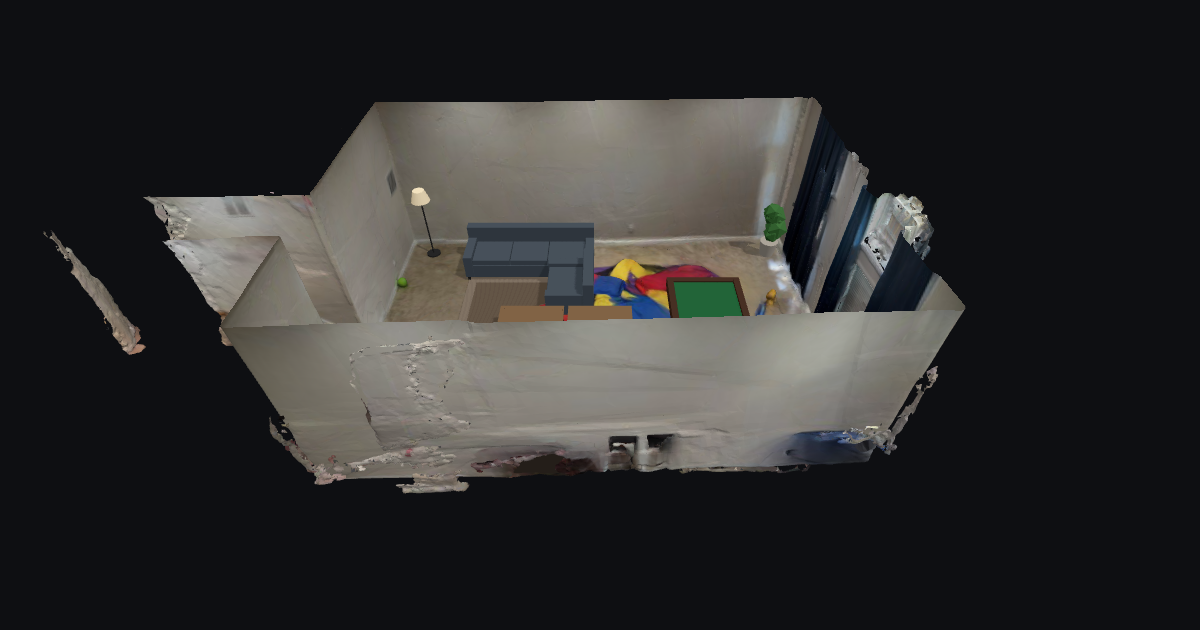
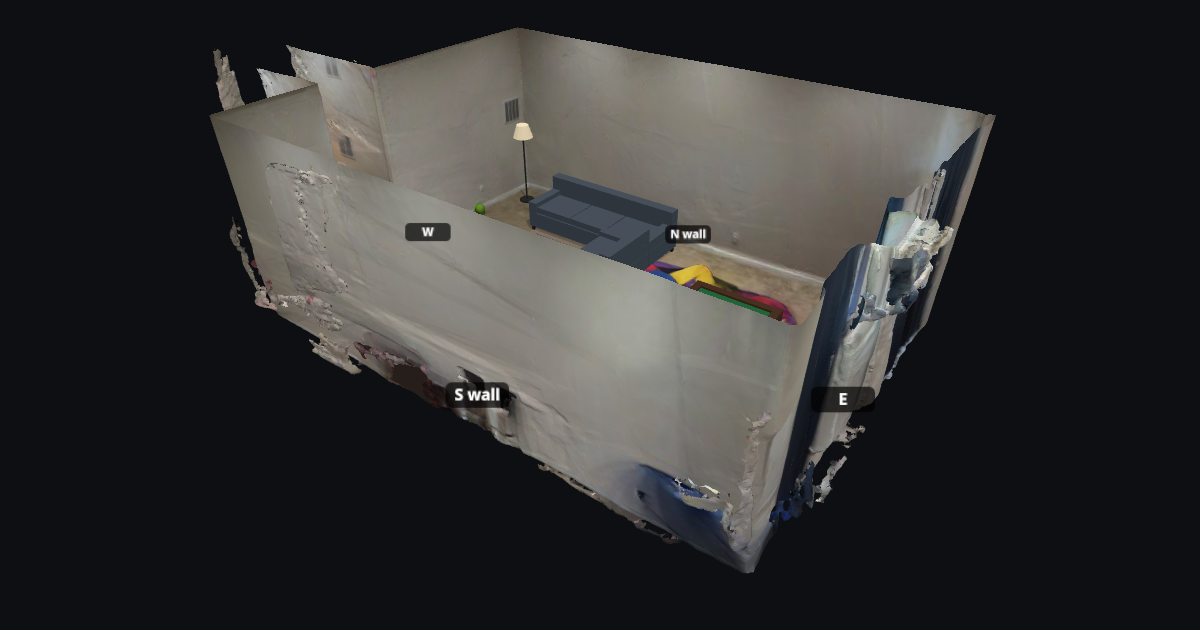
Auto-framing, view presets, compass, plan lock, snapping, better walk/controls

Changed region(s): [[0.1233, 0.0302, 0.8325, 0.9048], [0.0617, 0.4222, 0.1233, 0.573], [0.0308, 0.3619, 0.0617, 0.4222]]

diff --git a/index.html b/index.html
@@ -1,96 +1,161 @@
-<!doctype html><html lang="en"><head><meta charset="utf-8"><meta name="viewport" content="width=device-width,initial-scale=1,maximum-scale=1">
+<!doctype html><html lang="en"><head><meta charset="utf-8"><meta name="viewport" content="width=device-width,initial-scale=1,maximum-scale=1,viewport-fit=cover">
 <title>Basement Room Planner</title>
-<meta name="description" content="Walk through the scanned basement in 3D and try furniture layouts.">
-<meta property="og:title" content="Basement Room Planner"><meta property="og:description" content="Walk the scanned basement in 3D and try furniture layouts.">
+<meta name="description" content="Walk through the scanned room in 3D and try furniture layouts.">
+<meta property="og:title" content="Basement Room Planner"><meta property="og:description" content="Walk the scanned room in 3D and try furniture layouts.">
 <meta property="og:image" content="https://underoverinput.github.io/basement-room-planner/og.png"><meta property="og:type" content="website">
 <meta name="twitter:card" content="summary_large_image"><meta name="twitter:image" content="https://underoverinput.github.io/basement-room-planner/og.png">
 <style>
-*{box-sizing:border-box}body{margin:0;background:#0e0f12;color:#e6e6e6;font:14px system-ui,-apple-system,sans-serif;overflow:hidden}
-#c{position:fixed;inset:0}#top{position:fixed;top:0;left:0;right:300px;display:flex;gap:6px;flex-wrap:wrap;padding:10px;align-items:center;pointer-events:none}
-#top>*{pointer-events:auto}h1{font-size:15px;margin:0 8px 0 0;font-weight:600}
-button,select,input{background:#1d2027;color:#e6e6e6;border:1px solid #333845;border-radius:8px;padding:7px 10px;font:inherit}button:hover{background:#2a2f3a}button.on{background:#3b6fd8;border-color:#3b6fd8}
-#side{position:fixed;top:0;right:0;bottom:0;width:300px;background:#15171cee;border-left:1px solid #262a33;overflow:auto;padding:12px}
+*{box-sizing:border-box}html,body{height:100%}body{margin:0;background:#0e0f12;color:#e6e6e6;font:14px system-ui,-apple-system,sans-serif;overflow:hidden}
+#view{position:fixed;top:0;left:0;right:300px;bottom:0}#c{display:block;width:100%;height:100%;touch-action:none}
+#top{position:absolute;top:0;left:0;right:0;display:flex;gap:6px;flex-wrap:wrap;padding:10px;align-items:center;pointer-events:none}#top>*{pointer-events:auto}
+h1{font-size:15px;margin:0 6px 0 0;font-weight:600}.grp{display:flex;gap:2px;background:#15171cd0;border-radius:9px;padding:2px}
+button,select,input{background:#1d2027;color:#e6e6e6;border:1px solid #333845;border-radius:8px;padding:6px 9px;font:inherit}button:hover{background:#2a2f3a}button.on{background:#3b6fd8;border-color:#3b6fd8}
+#side{position:fixed;top:0;right:0;bottom:0;width:300px;background:#15171c;border-left:1px solid #262a33;overflow:auto;padding:12px}
 .cat{color:#8a90a0;font-size:11px;text-transform:uppercase;margin:12px 0 4px}.item{display:flex;justify-content:space-between;padding:7px 9px;border-radius:7px;cursor:pointer}.item:hover{background:#232733}.item small{color:#8a90a0}
-#sel{position:fixed;left:50%;bottom:14px;transform:translateX(-50%);background:#15171cf2;border:1px solid #2a2f3a;border-radius:12px;padding:8px;display:none;gap:6px;align-items:center}
-#hint{position:fixed;left:10px;bottom:10px;color:#8a90a0;font-size:12px}a{color:#7aa7ff}
-#joy{position:fixed;left:24px;bottom:70px;width:110px;height:110px;border-radius:50%;background:#ffffff14;border:1px solid #ffffff30;display:none;touch-action:none}#joy i{position:absolute;left:35px;top:35px;width:40px;height:40px;border-radius:50%;background:#ffffff50}
-#toast{position:fixed;top:60px;left:50%;transform:translateX(-50%);background:#3b6fd8;padding:8px 14px;border-radius:8px;display:none}
-#load{position:fixed;inset:0;display:flex;align-items:center;justify-content:center;font-size:16px;background:#0e0f12}
-@media(max-width:760px){#top{right:0}#side{top:auto;left:0;width:auto;height:38vh;border-left:0;border-top:1px solid #262a33;border-radius:14px 14px 0 0}#side.min{height:44px;overflow:hidden}#sel{bottom:calc(38vh + 10px);flex-wrap:wrap;width:94vw;justify-content:center}#hint{display:none}#joy{bottom:calc(38vh + 20px)}}
+#sel{position:absolute;left:50%;bottom:12px;transform:translateX(-50%);background:#15171cf2;border:1px solid #2a2f3a;border-radius:12px;padding:8px;display:none;gap:6px;align-items:center;flex-wrap:wrap;justify-content:center;max-width:96%}
+#hint{position:absolute;left:10px;bottom:10px;color:#9aa0b0;font-size:12px;background:#0e0f12b0;padding:4px 8px;border-radius:6px}a{color:#7aa7ff}
+#compass{position:absolute;right:12px;top:58px;width:56px;height:56px;border-radius:50%;background:#15171cd0;border:1px solid #333845}
+#compass svg{width:100%;height:100%;transition:transform .05s}
+#joy{position:absolute;left:24px;bottom:60px;width:110px;height:110px;border-radius:50%;background:#ffffff14;border:1px solid #ffffff30;display:none;touch-action:none}#joy i{position:absolute;left:35px;top:35px;width:40px;height:40px;border-radius:50%;background:#ffffff50}
+#toast{position:absolute;top:60px;left:50%;transform:translateX(-50%);background:#3b6fd8;padding:8px 14px;border-radius:8px;display:none}
+#load{position:fixed;inset:0;display:flex;align-items:center;justify-content:center;font-size:16px;background:#0e0f12;z-index:9}
+label{display:flex;gap:4px;align-items:center;font-size:12px}
+@media(max-width:760px){#view{right:0;bottom:38vh}#side{top:auto;left:0;width:auto;height:38vh;border-left:0;border-top:1px solid #262a33}#hint{font-size:11px;right:66px}#compass{top:auto;bottom:10px;right:10px;width:46px;height:46px}}
+@media(max-height:500px) and (orientation:landscape){#view{right:240px;bottom:0}#side{top:0;left:auto;right:0;width:240px;height:auto;border-top:0;border-left:1px solid #262a33}#compass{top:auto;bottom:10px}}
 </style>
 <script type="importmap">{"imports":{"three":"https://cdn.jsdelivr.net/npm/three@0.165.0/build/three.module.js","three/addons/":"https://cdn.jsdelivr.net/npm/three@0.165.0/examples/jsm/"}}</script>
-</head><body><canvas id="c"></canvas><div id="load">Loading basement scan…</div>
-<div id="top"><h1>Basement Planner</h1><button id="mOrbit" class="on">Orbit</button><button id="mWalk">Walk</button>
+</head><body><div id="load">Loading room scan…</div>
+<div id="view"><canvas id="c"></canvas>
+<div id="top"><h1>Room Planner</h1>
+<div class="grp"><button id="mOrbit" class="on">Orbit</button><button id="mWalk">Walk</button></div>
+<div class="grp"><button data-v="top">Top</button><button data-v="front">Front</button><button data-v="side">Side</button><button data-v="iso">3/4</button><button id="fit" title="F">Fit room</button></div>
+<button id="lock">Lock to plan</button>
+<div class="grp"><label><input type="checkbox" id="snapG" checked>Grid 6″</label><label><input type="checkbox" id="snapA" checked>15°</label></div>
 <select id="layouts"><option value="">Layouts…</option></select><button id="save">Save</button><button id="share">Share layout</button><button id="clear">Clear</button>
-<a href="https://poly.cam/capture/0503709E-BDD0-4D62-BD74-C1BD9F886780" target="_blank" rel="noopener">View original scan on Polycam</a></div>
+<a href="https://poly.cam/capture/0503709E-BDD0-4D62-BD74-C1BD9F886780" target="_blank" rel="noopener">Original scan on Polycam</a></div>
+<div id="compass" title="Compass: N is the far wall in Top view"><svg viewBox="-50 -50 100 100"><circle r="44" fill="none" stroke="#444a58" stroke-width="2"/><path d="M0-38L9 0H-9Z" fill="#e05050"/><path d="M0 38L9 0H-9Z" fill="#9aa0b0"/><text y="-22" text-anchor="middle" fill="#fff" font-size="16" font-weight="700" transform="translate(0,-4)">N</text></svg></div>
+<div id="sel"><b id="selName"></b><small id="selDim" style="color:#8a90a0"></small><label>↻<input type="range" id="rotS" min="0" max="359" step="15" style="width:110px"><span id="rotV"></span></label><input type="color" id="col"><button id="dup">Duplicate</button><button id="del">Delete</button><button id="desel">Done</button></div>
+<div id="joy"><i></i></div><div id="toast"></div><div id="hint"></div></div>
 <div id="side"><div id="sideHead" style="display:flex;justify-content:space-between;align-items:center"><b>Add furniture</b><small id="roomdim" style="color:#8a90a0"></small></div><div id="list"></div></div>
-<div id="sel"><b id="selName"></b><small id="selDim" style="color:#8a90a0"></small><button id="rotL">⟲ 15°</button><button id="rotR">⟳ 15°</button><input type="color" id="col"><button id="dup">Duplicate</button><button id="del">Delete</button></div>
-<div id="joy"><i></i></div><div id="toast"></div>
-<div id="hint">Orbit: drag to look, scroll to zoom · Click item to select, drag to move · R/Q rotate · Del delete · Walk: WASD + drag</div>
 <script type="module">
 import * as THREE from 'three';import {OrbitControls} from 'three/addons/controls/OrbitControls.js';import {GLTFLoader} from 'three/addons/loaders/GLTFLoader.js';
 import {catalog,setColor} from './furniture.js';
-const B={x0:-4.26,x1:4.26,z0:-3.07,z1:3.07,ceil:3.9};const EYE=1.6;
+const B={x0:-4.26,x1:4.26,z0:-3.07,z1:3.07,ceil:3.9};const EYE=1.676,ROOM_ROT=-1.58*Math.PI/180,GRID=0.1524;
+const touch=matchMedia('(pointer:coarse)').matches;
 const ft=m=>{const i=Math.round(m*39.3701);return `${Math.floor(i/12)}′${i%12}″`;};
-document.getElementById('roomdim').textContent=`Room ≈ ${ft(B.x1-B.x0)} × ${ft(B.z1-B.z0)}`;
-const cv=document.getElementById('c');const R=new THREE.WebGLRenderer({canvas:cv,antialias:true,preserveDrawingBuffer:true});R.setPixelRatio(Math.min(devicePixelRatio,2));R.shadowMap.enabled=true;R.localClippingEnabled=true;const clip=new THREE.Plane(new THREE.Vector3(0,-1,0),3.3);
+document.getElementById('roomdim').textContent=`Room ≈ ${ft(B.x1-B.x0)} × ${ft(B.z1-B.z0)}, ceiling ${ft(B.ceil)}`;
+const view=document.getElementById('view'),cv=document.getElementById('c');
+const R=new THREE.WebGLRenderer({canvas:cv,antialias:true,preserveDrawingBuffer:true});R.shadowMap.enabled=true;R.localClippingEnabled=true;
+const clip=new THREE.Plane(new THREE.Vector3(0,-1,0),3.3);
 const S=new THREE.Scene();S.background=new THREE.Color(0x0e0f12);
-const cam=new THREE.PerspectiveCamera(60,1,0.05,100);cam.position.set(0,7.5,7.5);
+const cam=new THREE.PerspectiveCamera(48,1,0.05,200);
 S.add(new THREE.HemisphereLight(0xffffff,0x444444,1.6));const dl=new THREE.DirectionalLight(0xffffff,1.2);dl.position.set(3,6,2);dl.castShadow=true;S.add(dl);
-const oc=new OrbitControls(cam,cv);oc.target.set(0,0.5,0);oc.enableDamping=true;oc.maxPolarAngle=Math.PI*0.49;
+const oc=new OrbitControls(cam,cv);oc.enableDamping=true;oc.dampingFactor=0.1;oc.zoomToCursor=true;oc.screenSpacePanning=false;oc.minDistance=1.2;oc.maxDistance=40;oc.maxPolarAngle=Math.PI/2-0.03;oc.zoomSpeed=0.9;
+oc.touches={ONE:THREE.TOUCH.ROTATE,TWO:THREE.TOUCH.DOLLY_PAN};
+oc.addEventListener('change',()=>{const t=oc.target;t.x=THREE.MathUtils.clamp(t.x,B.x0-2,B.x1+2);t.z=THREE.MathUtils.clamp(t.z,B.z0-2,B.z1+2);t.y=THREE.MathUtils.clamp(t.y,0,2);if(cam.position.y<0.15)cam.position.y=0.15;});
+oc.addEventListener('start',()=>{anim=null;});
 const floor=new THREE.Mesh(new THREE.PlaneGeometry(B.x1-B.x0,B.z1-B.z0),new THREE.ShadowMaterial({opacity:0.25}));floor.rotation.x=-Math.PI/2;floor.position.y=0.002;floor.receiveShadow=true;S.add(floor);
-function resize(){const w=innerWidth,h=innerHeight;R.setSize(w,h,false);cam.aspect=w/h;cam.updateProjectionMatrix();}addEventListener('resize',resize);resize();
-new GLTFLoader().load('room.glb',g=>{g.scene.traverse(o=>{if(o.isMesh){o.receiveShadow=true;o.material.side=THREE.DoubleSide;o.material.clippingPlanes=[clip];}});S.add(g.scene);window.roomLoaded=true;document.getElementById('load').remove();},undefined,e=>{document.getElementById('load').textContent='Could not load room scan';});
-// list
+// wall labels
+function label(t,x,z){const c=document.createElement('canvas');c.width=128;c.height=64;const g=c.getContext('2d');g.fillStyle='#000a';g.beginPath();g.roundRect(4,8,120,48,12);g.fill();g.fillStyle='#fff';g.font='bold 30px system-ui';g.textAlign='center';g.textBaseline='middle';g.fillText(t,64,33);
+ const s=new THREE.Sprite(new THREE.SpriteMaterial({map:new THREE.CanvasTexture(c),depthTest:false}));s.scale.set(0.9,0.45,1);s.position.set(x,0.3,z);s.renderOrder=5;S.add(s);}
+label('N wall',0,B.z0+0.3);label('S wall',0,B.z1-0.3);label('E',B.x1-0.3,0);label('W',B.x0+0.3,0);
+// sizing
+function viewSize(){const r=view.getBoundingClientRect();return [Math.max(1,r.width),Math.max(1,r.height)];}
+function resize(){const [w,h]=viewSize();R.setPixelRatio(Math.min(devicePixelRatio||1,2));R.setSize(w,h,false);const th=Math.min(document.getElementById('top').offsetHeight+4,h*0.45);cam.aspect=w/(h-th);cam.setViewOffset(w,h-th,0,-th,w,h);cam.updateProjectionMatrix();if(mode==='orbit')goView(curView,false);}
+new ResizeObserver(resize).observe(view);
+// framing
+const DIRS={top:new THREE.Vector3(0,1,0.0001),front:new THREE.Vector3(0,0.35,1),side:new THREE.Vector3(1,0.35,0),iso:new THREE.Vector3(0.8,0.95,1.1)};
+let curView='iso',anim=null,locked=false;
+function framePose(name){const d=DIRS[name].clone().normalize();const tgt=new THREE.Vector3(0,0,0);const up=new THREE.Vector3(0,1,0);
+ const fwd=d.clone().negate(),right=new THREE.Vector3().crossVectors(fwd,up);if(right.lengthSq()<1e-6)right.set(1,0,0);right.normalize();const u=new THREE.Vector3().crossVectors(right,fwd);
+ const tv=Math.tan(THREE.MathUtils.degToRad(cam.fov/2)),th=tv*cam.aspect;let D=0;const hY=name==='top'?0:2.4;
+ for(const x of[B.x0,B.x1])for(const y of[0,hY])for(const z of[B.z0,B.z1]){const c=new THREE.Vector3(x,y,z);D=Math.max(D,c.dot(d)+Math.abs(c.dot(right))/th,c.dot(d)+Math.abs(c.dot(u))/tv);}
+ D*=1.08;return {pos:d.multiplyScalar(D),tgt};}
+function goView(name,smooth=true){curView=name;const p=framePose(name);oc.maxDistance=Math.max(40,p.pos.length()*2);if(!smooth){cam.position.copy(p.pos);oc.target.copy(p.tgt);oc.update();anim=null;return;}
+ anim={t0:performance.now(),dur:650,p0:cam.position.clone(),t0v:oc.target.clone(),p1:p.pos,t1:p.tgt};}
+document.querySelectorAll('[data-v]').forEach(b=>b.onclick=()=>{if(mode!=='orbit')setMode('orbit');if(locked&&b.dataset.v!=='top')setLock(false);goView(b.dataset.v);});
+document.getElementById('fit').onclick=()=>{if(mode!=='orbit')setMode('orbit');goView(curView);};
+function setLock(on){locked=on;document.getElementById('lock').classList.toggle('on',on);oc.enableRotate=!on;if(on){if(mode!=='orbit')setMode('orbit');goView('top');}}
+document.getElementById('lock').onclick=()=>setLock(!locked);
+// load room
+let room;new GLTFLoader().load('room.glb',g=>{room=g.scene;room.rotation.y=ROOM_ROT;room.traverse(o=>{if(o.isMesh){o.receiveShadow=true;o.material.side=THREE.DoubleSide;o.material.clippingPlanes=[clip];}});S.add(room);window.roomLoaded=true;document.getElementById('load').remove();},undefined,()=>{document.getElementById('load').textContent='Could not load room scan';});
+// furniture list
 const byCat={};catalog.forEach(c=>(byCat[c.category]??=[]).push(c));const L=document.getElementById('list');
-for(const k in byCat){L.insertAdjacentHTML('beforeend',`<div class="cat">${k}</div>`);for(const c of byCat[k]){const d=document.createElement('div');d.className='item';d.innerHTML=`<span>${c.name}</span><small>${ft(c.dims.w)} × ${ft(c.dims.d)}</small>`;d.onclick=()=>{select(addItem(c.id,{x:clampX(oc.target.x,c),z:0,r:0}));};L.appendChild(d);}}
+for(const k in byCat){L.insertAdjacentHTML('beforeend',`<div class="cat">${k}</div>`);for(const c of byCat[k]){const d=document.createElement('div');d.className='item';d.innerHTML=`<span>${c.name}</span><small>${ft(c.dims.w)} × ${ft(c.dims.d)}</small>`;d.onclick=()=>{const t=mode==='orbit'?oc.target:cam.position;select(addItem(c.id,{x:t.x,z:t.z,r:0}));};L.appendChild(d);}}
 const items=[];const cat=id=>catalog.find(c=>c.id===id);
 function halfExt(o){const c=cat(o.userData.itemId),a=o.rotation.y,cs=Math.abs(Math.cos(a)),sn=Math.abs(Math.sin(a));return {hx:(c.dims.w*cs+c.dims.d*sn)/2,hz:(c.dims.w*sn+c.dims.d*cs)/2};}
 function clampObj(o){const {hx,hz}=halfExt(o);o.position.x=THREE.MathUtils.clamp(o.position.x,B.x0+hx,Math.max(B.x0+hx,B.x1-hx));o.position.z=THREE.MathUtils.clamp(o.position.z,B.z0+hz,Math.max(B.z0+hz,B.z1-hz));o.position.y=0;}
-function clampX(x){return x;}
-function addItem(id,s){const c=cat(id);if(!c)return;const g=c.build();g.position.set(s.x||0,0,s.z||0);g.rotation.y=(s.r||0)*Math.PI/180;g.userData.itemId=id;g.userData.rot=s.r||0;if(s.c){setColor(g,s.c);g.userData.color=s.c;}clampObj(g);S.add(g);items.push(g);return g;}
-let sel=null,box=null;const selUI=document.getElementById('sel');
-function select(o){sel=o;if(box){S.remove(box);box=null;}if(!o){selUI.style.display='none';return;}box=new THREE.BoxHelper(o,0x3b6fd8);S.add(box);const c=cat(o.userData.itemId);selUI.style.display='flex';document.getElementById('selName').textContent=c.name;document.getElementById('selDim').textContent=`${ft(c.dims.w)} W × ${ft(c.dims.d)} D × ${ft(c.dims.h)} H`;let col='#888888';o.traverse(m=>{if(m.isMesh&&m.material.__main)col='#'+m.material.color.getHexString();});document.getElementById('col').value=col;}
-function rot(d){if(!sel)return;sel.userData.rot=((sel.userData.rot+d)%360+360)%360;sel.rotation.y=sel.userData.rot*Math.PI/180;clampObj(sel);box.update();}
-document.getElementById('rotL').onclick=()=>rot(15);document.getElementById('rotR').onclick=()=>rot(-15);
+function addItem(id,s){const c=cat(id);if(!c)return;const g=c.build();g.position.set(s.x||0,0,s.z||0);g.userData.itemId=id;setRot(g,s.r||0);if(s.c){setColor(g,s.c);g.userData.color=s.c;}clampObj(g);S.add(g);items.push(g);return g;}
+function setRot(o,deg){o.userData.rot=((Math.round(deg)%360)+360)%360;o.rotation.y=o.userData.rot*Math.PI/180;}
+// selection outline
+let sel=null,outline=null;const selUI=document.getElementById('sel');
+function makeOutline(o){const c=cat(o.userData.itemId),g=new THREE.Group();const geo=new THREE.EdgesGeometry(new THREE.BoxGeometry(c.dims.w+0.06,c.dims.h+0.04,c.dims.d+0.06));const l=new THREE.LineSegments(geo,new THREE.LineBasicMaterial({color:0x4d8dff,depthTest:false}));l.position.y=c.dims.h/2;l.renderOrder=9;g.add(l);
+ const ring=new THREE.Mesh(new THREE.PlaneGeometry(c.dims.w+0.12,c.dims.d+0.12),new THREE.MeshBasicMaterial({color:0x3b6fd8,transparent:true,opacity:0.25,depthWrite:false}));ring.rotation.x=-Math.PI/2;ring.position.y=0.01;g.add(ring);return g;}
+function syncOutline(){if(outline&&sel){outline.position.copy(sel.position);outline.rotation.y=sel.rotation.y;}}
+function select(o){sel=o;if(outline){S.remove(outline);outline=null;}if(!o){selUI.style.display='none';hint();return;}outline=makeOutline(o);S.add(outline);syncOutline();const c=cat(o.userData.itemId);selUI.style.display='flex';document.getElementById('selName').textContent=c.name;document.getElementById('selDim').textContent=`${ft(c.dims.w)} W × ${ft(c.dims.d)} D × ${ft(c.dims.h)} H`;let col='#888888';o.traverse(m=>{if(m.isMesh&&m.material.__main)col='#'+m.material.color.getHexString();});document.getElementById('col').value=col;syncRotUI();hint();}
+const rotS=document.getElementById('rotS');function syncRotUI(){if(!sel)return;rotS.value=sel.userData.rot;document.getElementById('rotV').textContent=sel.userData.rot+'°';}
+rotS.oninput=()=>{if(!sel)return;setRot(sel,+rotS.value);clampObj(sel);syncOutline();syncRotUI();};
+const snapA=document.getElementById('snapA'),snapG=document.getElementById('snapG');snapA.onchange=()=>rotS.step=snapA.checked?15:1;
+function rot(d){if(!sel)return;setRot(sel,sel.userData.rot+d);clampObj(sel);syncOutline();syncRotUI();}
 document.getElementById('col').oninput=e=>{if(sel){setColor(sel,e.target.value);sel.userData.color=e.target.value;}};
-document.getElementById('dup').onclick=()=>{if(sel)select(addItem(sel.userData.itemId,{x:sel.position.x+0.3,z:sel.position.z+0.3,r:sel.userData.rot,c:sel.userData.color}));};
-const del=()=>{if(!sel)return;S.remove(sel);items.splice(items.indexOf(sel),1);select(null);};document.getElementById('del').onclick=del;
-addEventListener('keydown',e=>{if(e.target.tagName==='INPUT')return;if(e.key==='Delete'||e.key==='Backspace')del();if(e.key==='r')rot(-15);if(e.key==='q')rot(15);keys[e.code]=true;});addEventListener('keyup',e=>keys[e.code]=false);
+const dup=()=>{if(sel)select(addItem(sel.userData.itemId,{x:sel.position.x+0.3,z:sel.position.z+0.3,r:sel.userData.rot,c:sel.userData.color}));};document.getElementById('dup').onclick=dup;
+const del=()=>{if(!sel)return;S.remove(sel);items.splice(items.indexOf(sel),1);select(null);};document.getElementById('del').onclick=del;document.getElementById('desel').onclick=()=>select(null);
+const keys={};
+addEventListener('keydown',e=>{if(['INPUT','SELECT'].includes(e.target.tagName)&&e.target.type!=='range')return;keys[e.code]=true;const k=e.key.toLowerCase();
+ if(k==='delete'||k==='backspace'){del();e.preventDefault();}else if(k==='escape')select(null);else if(k==='r')rot(e.shiftKey?15:-15);else if(k==='f'){if(mode!=='orbit')setMode('orbit');goView(curView);}else if(k==='d'&&mode==='orbit')dup();});
+addEventListener('keyup',e=>keys[e.code]=false);addEventListener('blur',()=>{for(const k in keys)keys[k]=false;});
 // picking & drag
-const rc=new THREE.Raycaster(),pl=new THREE.Plane(new THREE.Vector3(0,1,0),0),nd=new THREE.Vector2();let drag=null,off=new THREE.Vector3(),downAt=null;
+const rc=new THREE.Raycaster(),pl=new THREE.Plane(new THREE.Vector3(0,1,0),0),nd=new THREE.Vector2();let drag=null,off=new THREE.Vector3(),downAt=null,look=null,pointers=0;
 function ndc(e){const r=cv.getBoundingClientRect();nd.set((e.clientX-r.left)/r.width*2-1,-(e.clientY-r.top)/r.height*2+1);rc.setFromCamera(nd,cam);}
 function hitItem(){const h=rc.intersectObjects(items,true)[0];if(!h)return null;let o=h.object;while(o&&!items.includes(o))o=o.parent;return o;}
-cv.addEventListener('pointerdown',e=>{ndc(e);downAt={x:e.clientX,y:e.clientY,t:Date.now()};const o=hitItem();if(o){select(o);drag=o;const p=new THREE.Vector3();rc.ray.intersectPlane(pl,p);off.subVectors(o.position,p);oc.enabled=false;cv.setPointerCapture(e.pointerId);}else if(mode==='walk'){look={x:e.clientX,y:e.clientY};}});
-cv.addEventListener('pointermove',e=>{if(drag){ndc(e);const p=new THREE.Vector3();if(rc.ray.intersectPlane(pl,p)){drag.position.set(p.x+off.x,0,p.z+off.z);clampObj(drag);box.update();}}else if(look){yaw-=(e.clientX-look.x)*0.004;pitch=THREE.MathUtils.clamp(pitch-(e.clientY-look.y)*0.004,-1.3,1.3);look={x:e.clientX,y:e.clientY};}});
-cv.addEventListener('pointerup',e=>{const moved=downAt&&Math.hypot(e.clientX-downAt.x,e.clientY-downAt.y)>6;if(!drag&&!moved){ndc(e);if(!hitItem()){select(null);if(mode==='walk'){const p=new THREE.Vector3();if(rc.ray.intersectPlane(pl,p))walkTo=p;}}}drag=null;look=null;oc.enabled=mode==='orbit';});
-// walk mode
-let mode='orbit',yaw=0,pitch=0,look=null,keys={},walkTo=null,joy={x:0,y:0};
-function setMode(m){mode=m;document.getElementById('mOrbit').classList.toggle('on',m==='orbit');document.getElementById('mWalk').classList.toggle('on',m==='walk');oc.enabled=m==='orbit';clip.constant=m==='orbit'?3.3:99;document.getElementById('joy').style.display=m==='walk'&&matchMedia('(pointer:coarse)').matches?'block':'none';
- if(m==='walk'){cam.position.set(0,EYE,B.z1-0.5);yaw=0;pitch=-0.1;}else{cam.position.set(0,7.5,7.5);oc.target.set(0,0.5,0);}}
+cv.addEventListener('pointerdown',e=>{pointers++;if(pointers>1){if(drag){drag=null;}return;}if(e.button!==0)return;ndc(e);downAt={x:e.clientX,y:e.clientY};const o=hitItem();
+ if(o){select(o);drag=o;const p=new THREE.Vector3();rc.ray.intersectPlane(pl,p);off.subVectors(o.position,p);oc.enabled=false;cv.setPointerCapture(e.pointerId);e.stopImmediatePropagation();}
+ else if(mode==='walk')look={x:e.clientX,y:e.clientY};},{capture:true});
+cv.addEventListener('pointermove',e=>{if(drag){ndc(e);const p=new THREE.Vector3();if(rc.ray.intersectPlane(pl,p)){let x=p.x+off.x,z=p.z+off.z;if(snapG.checked){x=Math.round(x/GRID)*GRID;z=Math.round(z/GRID)*GRID;}drag.position.set(x,0,z);clampObj(drag);syncOutline();}}
+ else if(look){tyaw-=(e.clientX-look.x)*0.004;tpitch=THREE.MathUtils.clamp(tpitch-(e.clientY-look.y)*0.004,-1.2,1.2);look={x:e.clientX,y:e.clientY};}});
+function up(e){pointers=Math.max(0,pointers-1);const moved=downAt&&Math.hypot(e.clientX-downAt.x,e.clientY-downAt.y)>6;
+ if(!drag&&!moved&&downAt&&e.button===0){ndc(e);if(!hitItem()){select(null);if(mode==='walk'){const p=new THREE.Vector3();if(rc.ray.intersectPlane(pl,p))walkTo=p;}}}
+ drag=null;look=null;downAt=null;oc.enabled=mode==='orbit';}
+cv.addEventListener('pointerup',up);cv.addEventListener('pointercancel',up);cv.addEventListener('contextmenu',e=>e.preventDefault());
+// walk
+let mode='orbit',yaw=0,pitch=0,tyaw=0,tpitch=0,walkTo=null,joy={x:0,y:0};
+function setMode(m){mode=m;document.getElementById('mOrbit').classList.toggle('on',m==='orbit');document.getElementById('mWalk').classList.toggle('on',m==='walk');oc.enabled=m==='orbit';anim=null;
+ document.getElementById('joy').style.display=m==='walk'&&touch?'block':'none';clip.constant=m==='orbit'?3.3:99;
+ if(m==='walk'){if(locked)setLock(false);cam.position.set(0,EYE,B.z1-0.6);yaw=tyaw=0;pitch=tpitch=-0.08;cam.fov=60;}else{cam.fov=48;cam.up.set(0,1,0);goView(curView,false);}cam.updateProjectionMatrix();hint();}
 document.getElementById('mOrbit').onclick=()=>setMode('orbit');document.getElementById('mWalk').onclick=()=>setMode('walk');
 const J=document.getElementById('joy'),Ji=J.querySelector('i');J.addEventListener('pointermove',e=>{if(!e.buttons&&e.pointerType!=='touch')return;const r=J.getBoundingClientRect();let x=(e.clientX-r.left-55)/55,y=(e.clientY-r.top-55)/55;const l=Math.hypot(x,y);if(l>1){x/=l;y/=l;}joy={x,y};Ji.style.transform=`translate(${x*35}px,${y*35}px)`;});
-J.addEventListener('pointerup',()=>{joy={x:0,y:0};Ji.style.transform='';});J.addEventListener('pointerleave',()=>{joy={x:0,y:0};Ji.style.transform='';});
-const clock=new THREE.Clock();
-function tick(){const dt=Math.min(clock.getDelta(),0.1);
- if(mode==='walk'){let f=(keys.KeyW||keys.ArrowUp?1:0)-(keys.KeyS||keys.ArrowDown?1:0)-joy.y,s=(keys.KeyD||keys.ArrowRight?1:0)-(keys.KeyA||keys.ArrowLeft?1:0)+joy.x;const sp=2*dt;
+const jr=()=>{joy={x:0,y:0};Ji.style.transform='';};J.addEventListener('pointerup',jr);J.addEventListener('pointerleave',jr);J.addEventListener('pointercancel',jr);
+function hint(){const h=document.getElementById('hint');let t;
+ if(mode==='walk')t=touch?'Joystick to move · drag to look · tap floor to walk there':'WASD/arrows to move · drag to look · click floor to walk there';
+ else if(touch)t='1 finger: rotate · 2 fingers: pan & pinch zoom · tap item to select, drag to move';
+ else t='Left-drag: rotate · Right-drag: pan · Wheel: zoom · Drag items to move · R rotate · D duplicate · Del delete · Esc deselect · F fit';
+ if(locked)t='Plan view locked · '+t.replace(/^.*?· /,'');h.textContent=t;}
+// compass
+const csvg=document.querySelector('#compass svg');
+const clock=new THREE.Clock();const ease=t=>t<.5?4*t*t*t:1-Math.pow(-2*t+2,3)/2;
+function tick(){const dt=Math.min(clock.getDelta(),0.1);let az;
+ if(mode==='walk'){let f=(keys.KeyW||keys.ArrowUp?1:0)-(keys.KeyS||keys.ArrowDown?1:0)-joy.y,s=(keys.KeyD||keys.ArrowRight?1:0)-(keys.KeyA||keys.ArrowLeft?1:0)+joy.x;const sp=1.6*dt;
+  yaw+=(tyaw-yaw)*Math.min(1,dt*14);pitch+=(tpitch-pitch)*Math.min(1,dt*14);
   const fw=new THREE.Vector3(-Math.sin(yaw),0,-Math.cos(yaw)),rt=new THREE.Vector3(Math.cos(yaw),0,-Math.sin(yaw));
-  if(f||s){walkTo=null;cam.position.addScaledVector(fw,f*sp).addScaledVector(rt,s*sp);}else if(walkTo){const d=new THREE.Vector3(walkTo.x-cam.position.x,0,walkTo.z-cam.position.z);if(d.length()<0.1)walkTo=null;else{cam.position.addScaledVector(d.normalize(),sp);}}
-  cam.position.x=THREE.MathUtils.clamp(cam.position.x,B.x0+0.2,B.x1-0.2);cam.position.z=THREE.MathUtils.clamp(cam.position.z,B.z0+0.2,B.z1-0.2);cam.position.y=EYE;cam.rotation.set(pitch,yaw,0,'YXZ');}
- else oc.update();R.render(S,cam);requestAnimationFrame(tick);}tick();
+  if(f||s){walkTo=null;cam.position.addScaledVector(fw,f*sp).addScaledVector(rt,s*sp);}else if(walkTo){const d=new THREE.Vector3(walkTo.x-cam.position.x,0,walkTo.z-cam.position.z);if(d.length()<0.1)walkTo=null;else cam.position.addScaledVector(d.normalize(),Math.min(sp,d.length()));}
+  const m=0.3;cam.position.x=THREE.MathUtils.clamp(cam.position.x,B.x0+m,B.x1-m);cam.position.z=THREE.MathUtils.clamp(cam.position.z,B.z0+m,B.z1-m);cam.position.y=EYE;cam.rotation.set(pitch,yaw,0,'YXZ');az=yaw;}
+ else{if(anim){let t=Math.min(1,(performance.now()-anim.t0)/anim.dur),k=ease(t);cam.position.lerpVectors(anim.p0,anim.p1,k);oc.target.lerpVectors(anim.t0v,anim.t1,k);if(t>=1)anim=null;}oc.update();az=oc.getAzimuthalAngle();}
+ csvg.style.transform=`rotate(${THREE.MathUtils.radToDeg(az)}deg)`;R.render(S,cam);requestAnimationFrame(tick);}
+resize();goView('iso',false);hint();tick();
 // layouts
 const ser=()=>items.map(o=>({i:o.userData.itemId,x:+o.position.x.toFixed(2),z:+o.position.z.toFixed(2),r:o.userData.rot,...(o.userData.color?{c:o.userData.color}:{})}));
 function load(arr){items.slice().forEach(o=>S.remove(o));items.length=0;select(null);(arr||[]).forEach(s=>addItem(s.i,s));}
 const LS='basementLayouts';const getL=()=>JSON.parse(localStorage.getItem(LS)||'{}');
-function refreshL(){const sel=document.getElementById('layouts');sel.innerHTML='<option value="">Layouts…</option>'+Object.keys(getL()).map(k=>`<option>${k.replace(/</g,'&lt;')}</option>`).join('');}refreshL();
+function refreshL(){const s=document.getElementById('layouts');s.innerHTML='<option value="">Layouts…</option>'+Object.keys(getL()).map(k=>`<option>${k.replace(/</g,'&lt;')}</option>`).join('');}refreshL();
 document.getElementById('save').onclick=()=>{const n=prompt('Layout name','Layout '+(Object.keys(getL()).length+1));if(!n)return;const l=getL();l[n]=ser();localStorage.setItem(LS,JSON.stringify(l));refreshL();toast('Saved “'+n+'”');};
 document.getElementById('layouts').onchange=e=>{if(e.target.value)load(getL()[e.target.value]);};
 document.getElementById('clear').onclick=()=>load([]);
 function toast(t){const T=document.getElementById('toast');T.textContent=t;T.style.display='block';clearTimeout(T._t);T._t=setTimeout(()=>T.style.display='none',2200);}
 const enc=a=>btoa(unescape(encodeURIComponent(JSON.stringify(a)))).replace(/\+/g,'-').replace(/\//g,'_').replace(/=+$/,'');
 const dec=s=>JSON.parse(decodeURIComponent(escape(atob(s.replace(/-/g,'+').replace(/_/g,'/')))));
-document.getElementById('share').onclick=async()=>{location.hash='l='+enc(ser());const u=location.href;try{if(navigator.share&&matchMedia('(pointer:coarse)').matches)await navigator.share({title:'Basement layout',url:u});else{await navigator.clipboard.writeText(u);toast('Link copied');}}catch{toast('Link is in the address bar');}};
+document.getElementById('share').onclick=async()=>{location.hash='l='+enc(ser());const u=location.href;try{if(navigator.share&&touch)await navigator.share({title:'Room layout',url:u});else{await navigator.clipboard.writeText(u);toast('Link copied');}}catch{toast('Link is in the address bar');}};
 function fromHash(){const m=location.hash.match(/l=([\w-]+)/);if(m)try{load(dec(m[1]));}catch(e){console.warn('bad layout link');}}fromHash();addEventListener('hashchange',fromHash);
-document.getElementById('sideHead').onclick=()=>{if(innerWidth<=760)document.getElementById('side').classList.toggle('min');};
-window.planner={items,addItem,ser,enc,dec,load,select,cam};
+document.getElementById('sideHead').onclick=()=>{};
+window.planner={items,addItem,ser,enc,dec,load,select,cam,goView,setLock,isAnimating:()=>!!anim,
+ framed(){cam.updateMatrixWorld();let ok=true;for(const x of[B.x0,B.x1])for(const z of[B.z0,B.z1]){const v=new THREE.Vector3(x,0,z).project(cam);if(Math.abs(v.x)>1.001||Math.abs(v.y)>1.001)ok=false;}return ok;}};
 </script></body></html>
